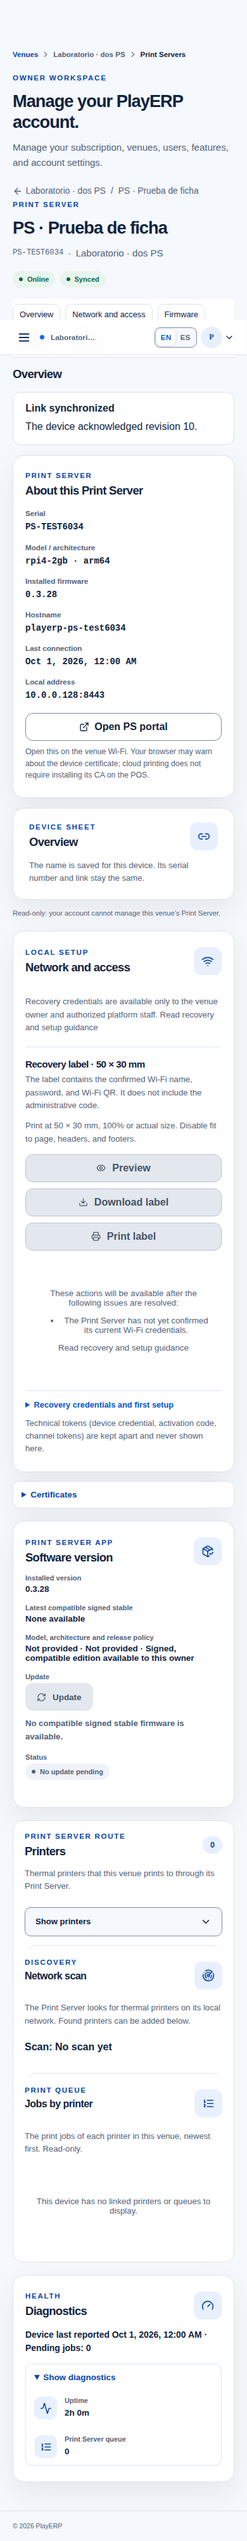
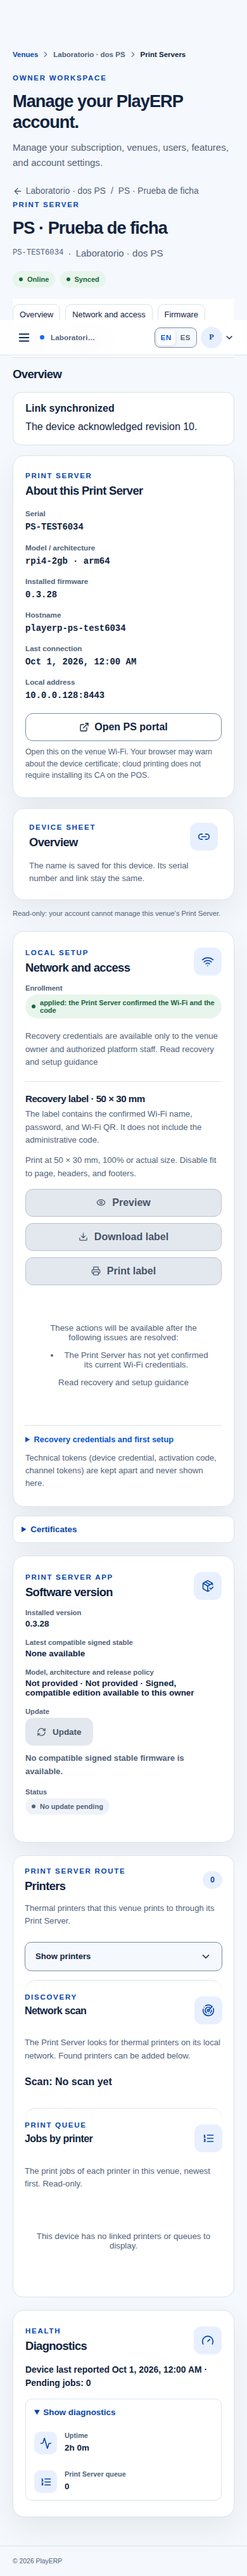
PE-603.4: wrap confirmed enrollment status on narrow screens

diff --git a/src/styles.css b/src/styles.css
@@ -813,3 +813,6 @@ html:not([data-nav="keyboard"]) :focus { outline: none !important; }
 .ps-registered-action-error{color:var(--danger);font-weight:700}
 
 .ps-read-warning{color:var(--warning);background:var(--warning-soft);border-color:var(--warning);flex-wrap:wrap}.ps-read-warning>span{flex:1 1 240px}
+/* PE-603.4: reported enrollment messages must wrap inside the mobile sheet. */
+.ps469-sheet .dev-facts > div { min-width: 0; }
+.ps469-sheet .dev-facts .server-status { max-width: 100%; white-space: normal; }

diff --git a/docs/evidence/pe6034/review.md b/docs/evidence/pe6034/review.md
@@ -8,3 +8,5 @@ Gaby reviewed the implementation and fixture evidence read-only, against PE-603.
 - Integration review additionally restricted certificate admin controls to admin scope when the account also has an admin role. This does not change backend authorization. Owner fixture intentionally reports the platform-admin flag to cover this case.
 
 No review or simulated test establishes mDNS resolution or login on Beny's physical LAN.
+
+Gaby also reviewed the final admin-scope certificate guard and the scoped badge wrapping correction; no findings. Real DEV data exposed a 390→398 px overflow in the English enrollment-confirmed badge. The fixture now includes that state and the sheet's badge wraps within its facts grid.
